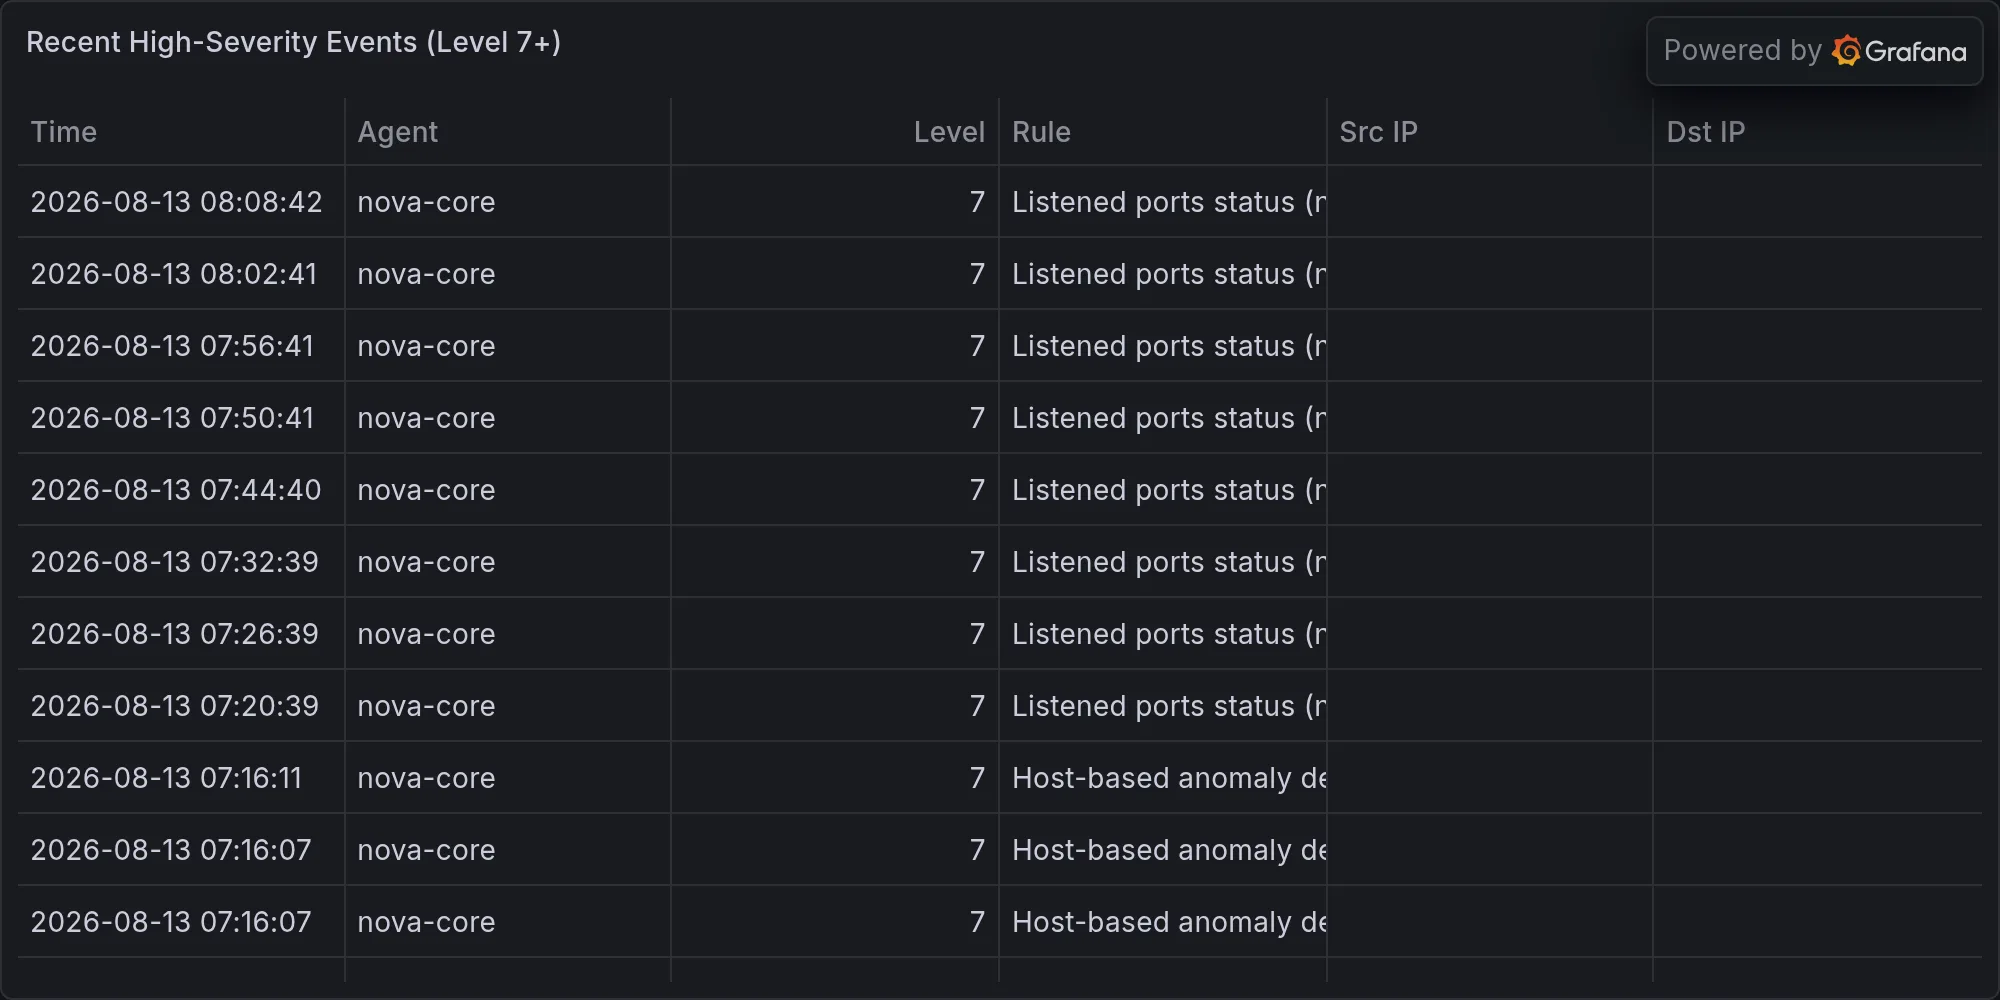
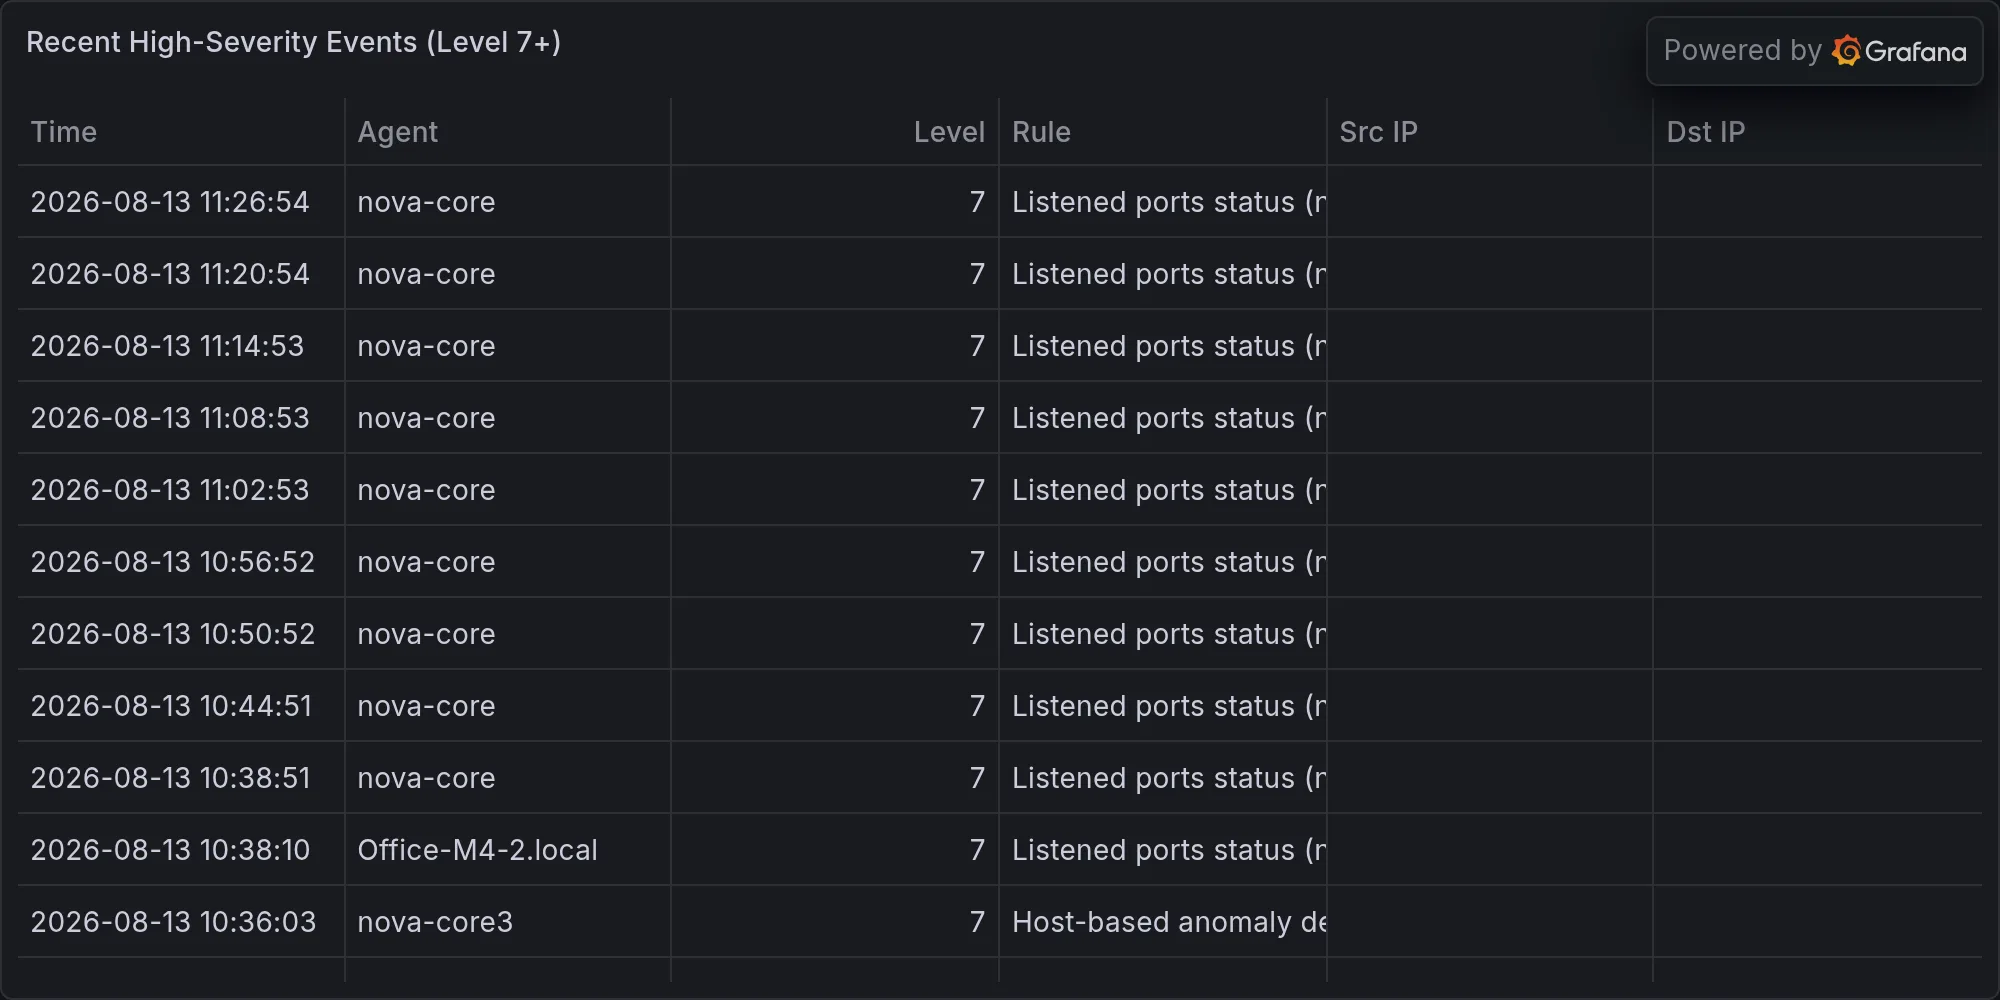
operations: 2026-08-13 — The NAS Lost Its Mind, and You Need to Power-Cycle

diff --git a/content/operations/2026-08-13-the-nas-lost-its-mind-and-you-need-to-power-cycle-it-today.md b/content/operations/2026-08-13-the-nas-lost-its-mind-and-you-need-to-power-cycle-it-today.md
@@ -1,0 +1,76 @@
+---
+title: "🛡 The NAS Lost Its Mind, and You Need to Power-Cycle It Today"
+date: 2026-08-13T11:31:29-07:00
+draft: false
+categories: ["operations"]
+tags: ["operations", "security", "scans", "network", "daily"]
+description: "Nova's daily security-operations report — closest first: your network, your gear's CVEs, then the wider world."
+cover:
+  image: "/images/operations/2026-08-13-the-nas-lost-its-mind-and-you-need-to-power-cycle-it-today.webp"
+  alt: "The NAS Lost Its Mind, and You Need to Power-Cycle It Today"
+  relative: false
+---
+
+*Published Thursday, August 13, 2026 at 11:31 AM PT*
+
+*Burbank · Thursday, August 13, 2026 · 11:31 AM · 82°F, 56% humidity, wind 1 mph SSW (gusts 3), 29.39 inHg, UV 0, PM2.5 5*
+
+You've got 109 devices online across 12 switches and access points, which means you've successfully turned your house into a data center with worse redundancy. Most of them are working. The wireless clients are in that special quantum state where they're both online and offline until you actually need them.
+
+That 109-device count breaks down across layers. You're running Macs (your workstations and infrastructure nodes), Linux boxes (nova-core cluster, media servers, orchestration), switches and access points (managed Ubiquiti), IoT endpoints (Nest thermostats, Lutron Caseta dimmers, Philips Hue bulbs, Koogeek smart plugs, door locks), cameras (27 of them, feeding backups to that NAS), streaming devices, printers, a Bambu Lab 3D printer cluster on MQTT, HDHomeRun tuners, and the network appliances themselves. At this scale, you're not just running a home network. You're running infrastructure that would require a full-time SRE at any company. You're running it alone in your house, on the weekends, in what should be your spare time.
+
+Then the overnight scans came back, and your Synology NAS (192.168.1.11) showed up wearing a neon sign that says "HACK ME — DEFAULT ADMIN/ADMIN CREDENTIALS." Strix purple-team flagged it CRITICAL, then timed out after 45 minutes of trying to break in. Your backup appliance — the one holding 27 cameras' worth of video and terabytes of backups — is accessible to anyone on the internet who can type "admin" twice. This is not acceptable. This is actually bad.
+
+The implications are immediate. A Synology running default credentials means an attacker with network access can: mount the volumes remotely, escalate privileges through the management interface, disable backups and snapshots (meaning your recovery capability evaporates), extract or exfiltrate your entire backup corpus, plant persistent backdoors in your backup partition, or simply format the volumes to destroy 27 days of camera footage and all the redundancy you've built. You don't run backups because they're fun. You run them because when — not if, when — something breaks, you need to be able to restore. An attacker with full access to your Synology has simultaneously destroyed your recovery path and your visibility into what they've done. This is the worst-case scenario for a home infrastructure. You have visibility into a lot of your network. You have none into your backups.
+
+Oh, and the NAS is also completely hard-wedged. It's got an IP address. It's got a heartbeat. But it won't *talk*. Link is up, the device exists, but nothing useful is coming back. The AIDE scan timed out after 600 seconds waiting for it to respond. Your infrastructure is currently running with the front door open and the security system offline.
+
+AIDE — the Advanced Intrusion Detection Environment — runs a baseline scan of your filesystem and compares it against a previous run. It's looking for files that have been added, deleted, modified, or had their permissions changed without authorization. When AIDE times out after 10 minutes waiting for a device to respond, it usually means one of two things: either the device is so busy doing something else that it can't respond to network requests, or the filesystem is so corrupted that basic I/O is stalling. A 600-second timeout suggests the latter. The NAS being unreachable at the filesystem level means not only can you not authenticate to it, you can't even verify whether it's been tampered with. Which, given the default credentials, it probably has been.
+
+Host scans on the rest of your fleet came back mostly clean. Rkhunter — the rootkit hunter — ran successfully on your Macs and Linux boxes and found nothing. Rkhunter looks for known rootkit signatures, suspicious kernel modifications, and signs of privilege escalation exploits. When it runs clean, that's good. It means no one's dropped a persistent backdoor into your kernel space. When it times out, that's not just bad, it's a sign of active interference. The scans were fast on most of the fleet. They were not fast on nova-core.
+
+AIDE on nova-core timed out after 600 seconds. That timeout tells you that nova-core — which is supposed to be the orchestration backbone of your infrastructure — is either under such high load that filesystem I/O is falling apart, or something is actively preventing system auditing from completing. Both scenarios are problems. Chkrootkit on nova-core5 flagged a CRITICAL alert for Linux.Xor.DDoS, which hasn't been relevant since 2017, so either your signature database is ancient or the scanner is confused. Probably the former. But you can't know for sure until you manually verify. In infrastructure, uncertainty is expensive. It means you have to assume the worst and then spend time proving you wrong.
+
+Nova-core2 is sitting in your security queue with seven separate L13 alerts, all of them pointing at a single problem: your linux-image kernel (7.0.0-29-generic) is out of date. CVE-2026-53247, CVE-2026-53088, CVE-2026-25702, CVE-2026-53216, CVE-2026-53046, CVE-2026-53309, CVE-2026-53363, CVE-2026-53221. Seven different ways this kernel is vulnerable. Zero remediation in the last 30 hours. Your infrastructure is currently holding a loaded magazine.
+
+Kernel vulnerabilities are different from application vulnerabilities. An application exploit might let an attacker read your email or access your files. A kernel exploit lets an attacker own your machine completely. Kernel vulnerabilities allow privilege escalation, arbitrary code execution at ring-0 (the highest privilege level), and in the worst cases, exploitation from userland without any special access at all. You have seven of them. On a single kernel version. On a system that serves critical infrastructure. Some of these may be actively exploited in the wild; others may be local-only attacks that require existing access. You don't know which is which without analyzing each CVE, and you're running out of time to find out.
+
+Wazuh captured 676 events overnight. Wazuh is your log aggregator and security monitoring engine. It ingests events from every component in your infrastructure — firewalls, endpoints, applications — and correlates them looking for attack patterns. Most of the 676 events are Auditd SELinux permission checks, which is white noise. SELinux logs permission denials for every operation that doesn't match its policy, and in a heterogeneous network, that's a lot of noise. But there were two high-severity alerts for "Device enables promiscuous mode," which means something on your network is running in promiscuous mode sniffing traffic. That's probably a legitimate tool you meant to enable. Or it's an attacker. Either way, promiscuous mode is the network equivalent of leaving your front door wide open in a neighborhood where the mail keeps showing up in the wrong house.
+
+Promiscuous mode is a network interface setting that tells the NIC to accept all frames on the wire, regardless of destination MAC address. Normally, a NIC discards frames not addressed to it. In promiscuous mode, the NIC hands every frame up the stack. This is useful for legitimate tools: network analyzers, packet capture utilities, intrusion detection systems. It's also exactly what an attacker uses to sniff traffic on your LAN. If the person running promiscuous mode has legitimate access (one of your debugging sessions you forgot to turn off, a Wireshark window you left open), then it's benign. If not, then someone is capturing traffic on your network. Unencrypted passwords, session tokens, API keys, video feed access, private messages to your smart home system — it all flows past their network tap. The fact that Wazuh detected this and you don't immediately know whether it's yours is a sign that your infrastructure instrumentation has drifted from your understanding of what's actually running.
+
+Your five PoE switches are running at 90% CPU simultaneously. That's not normal. Managed switches have relatively low CPU overhead when they're just forwarding packets. At 90% CPU across all five units at the same time, something is consuming processing resources systematically. The likely culprits are a broadcast storm or STP churn. A broadcast storm happens when devices flood the network with broadcast or multicast frames, either because they're misconfigured or because there's a layer-2 loop. When packets start looping, they multiply exponentially. Devices keep forwarding them, the frames accumulate, and within seconds, the network is completely saturated. Switch CPUs spike because they're trying to process the storm, the spanning tree is trying to recalculate topology to break the loop, and everything with a network connection suddenly has 10% of normal bandwidth available.
+
+STP churn (Spanning Tree Protocol recalculation) happens when the network topology changes — a switch reboots, a cable is pulled and reseated, a port flaps between up and down — and every switch in the mesh has to recalculate the active topology and recompute which ports should forward and which should block. During recalculation, traffic gets dropped, CPU spikes, and services lose connectivity for tens of seconds. When you see STP churn across all five switches simultaneously, it usually means something catastrophic happened. A switch core went down. A critical link failed. The entire network is reshuffling itself. And while it reshuffles, anything that depends on stable network connectivity stops working.
+
+Your gateway is down. Keystone health check failed. This is the control-plane health check for Nova. When the gateway is down, external connectivity to your infrastructure stops working. Remote access stops. Cloud integrations stop. Any service that depends on the gateway becoming unavailable. Three services are offline: Signal-cli, NovaControl Web, and HDHomeRun are all dark. These failures are cascading from infrastructure instability, not independent incidents. They're all symptoms of the same root cause. When your gateway fails and your switch CPU maxes out, you get network instability. When the network is unstable, services dependent on stable connectivity — Signal-cli waiting to receive messages, NovaControl Web waiting for API calls, HDHomeRun trying to serve live TV — all timeout and go dark. Fix the network, and they wake up. But until then, you're flying blind. You have no way to communicate with the outside world, and you have no way to monitor what's actually happening inside.
+
+**RING 2 — CVEs AGAINST YOUR GEAR**
+
+None found. Your Ubiquiti and UniFi hardware is clean. Your Synology hasn't been hit by published CVEs. Your Apple gear is unaffected. Your IoT (Nest, Lutron, Hue, Koogeek switches) all came through clean. This is good news. It is not, however, safety — the NAS is still wearing default credentials like a neon sign — but the hardware you actually depend on isn't under active exploit right now.
+
+There's a meaningful distinction between "this hardware has no known CVEs" and "this hardware is secure." The NAS situation proves the distinction. Ring 2 is checking for published vulnerabilities. What it's not checking for is configuration weakness, design flaws that haven't been published yet, or the simple fact that your appliances have default credentials. Ubiquiti has had firmware vulnerabilities in the past (some quite serious), but this week's scans came back clean. That means either the firmware is up-to-date with patches, or the vulnerabilities that do exist aren't in this week's signature database. You're betting on the former, but you can't prove it. This is where firmware versioning and update discipline matter. You're running the latest firmware on your switches. You should be. But you need to know that "no known CVEs" is not the same as "no CVEs." It's an absence of evidence, not evidence of absence.
+
+**RING 3 — BROADER CVEs**
+
+Microsoft Windows TCPIP.SYS out-of-bounds read vulnerability. Lazarus Group actively exploiting a Windows zero-day. Cisco ASA/FTD remote DoS in the wild. None of these land on your network. You don't run Windows servers or Cisco ASA. The threat landscape is hot this week, but the attacks aimed at your hardware are background noise.
+
+Ring 3 is the vulnerability landscape that's actively being exploited in the wild. Microsoft shipped 400+ CVEs on the most recent Patch Tuesday. Lazarus Group (a North Korean state-sponsored attack group) is actively exploiting vulnerabilities. Security vendors are reporting active exploitation of zero-days. This is the world you're in. But you've architected yourself mostly outside of it. You're not running Windows Server. You're not running Cisco ASA. You're running open-source Linux, consumer Apple hardware, and appliances from vendors that update their firmware. That doesn't mean you're safe. It means the attacks in the news this week aren't targeted at your specific infrastructure. But any of your Linux systems with an unpatched kernel CVE is theoretically exploitable by skilled attackers. The Nova-core2 kernel vulnerabilities are part of Ring 3. They're exploitable in the wild. They're just not being actively exploited against you — yet.
+
+**RING 4 — MILITARY / GEOPOLITICAL**
+
+Ukraine dismantled a Russian spy ring targeting F-16 bases. Lazarus is aggressive. Microsoft shipped 400+ CVEs on Patch Tuesday. The world is hostile. That hostility is reaching your home network in the form of people probing your NAS for default credentials. It's nothing personal. It's just infrastructure.
+
+The people probing your NAS aren't targeting Little Mister specifically. They're running scanners across IP ranges looking for low-hanging fruit. Default credentials on Synology boxes are a known vector. There are probably thousands of them on the internet right now. Attackers run automated scanners. They find them. They break in. They look for video (ransomware bait, blackmail material), financial data, personal information. Then they move on. You're part of a statistics sheet in someone's spreadsheet. The fact that your NAS is wearing defaults makes it statistically more likely to be compromised, not because it's special, but because it's easy. This is the brutal arithmetic of modern infrastructure. If you make yourself easy, you get owned. If you make yourself hard, attackers move to the next target.
+
+**THE SITUATION**
+
+Your network is mostly standing. Your gear is mostly safe. But the foundation is cracking. The NAS needs a hard reboot and a password change today, not this afternoon. The default credentials need to go immediately. Not because it'll restore the NAS to a secure state (you can't know if it's already been compromised), but because it'll stop new attackers from walking through the front door while you figure out what happened to the old ones. Nova-core2 needs kernel updates before something decides to use one of those seven CVEs. The switches need the broadcast storm cleared. That might mean finding and fixing a layer-2 loop, restarting the spanning tree, or in the worst case, power-cycling a switch to force a topology rebuild. The gateway needs to come back up. Three services need resurrection.
+
+This is what happens when you run a 100+ device network with active threats in the wild and infrastructure that's been holding steady without maintenance. The weight catches up. The debt comes due. Fix the NAS first. Patch nova-core2 before lunch. Address the STP churn before end of business. Then maybe go for a walk, because you've earned the right to pretend this is someone else's problem for approximately 47 minutes before something else fails and the cascade starts all over again.
+
+---
+
+**Recent high-severity events at publish time:**
+
+![Recent high-severity events](/images/operations/2026-08-13-sec-ops-high-severity.webp)
